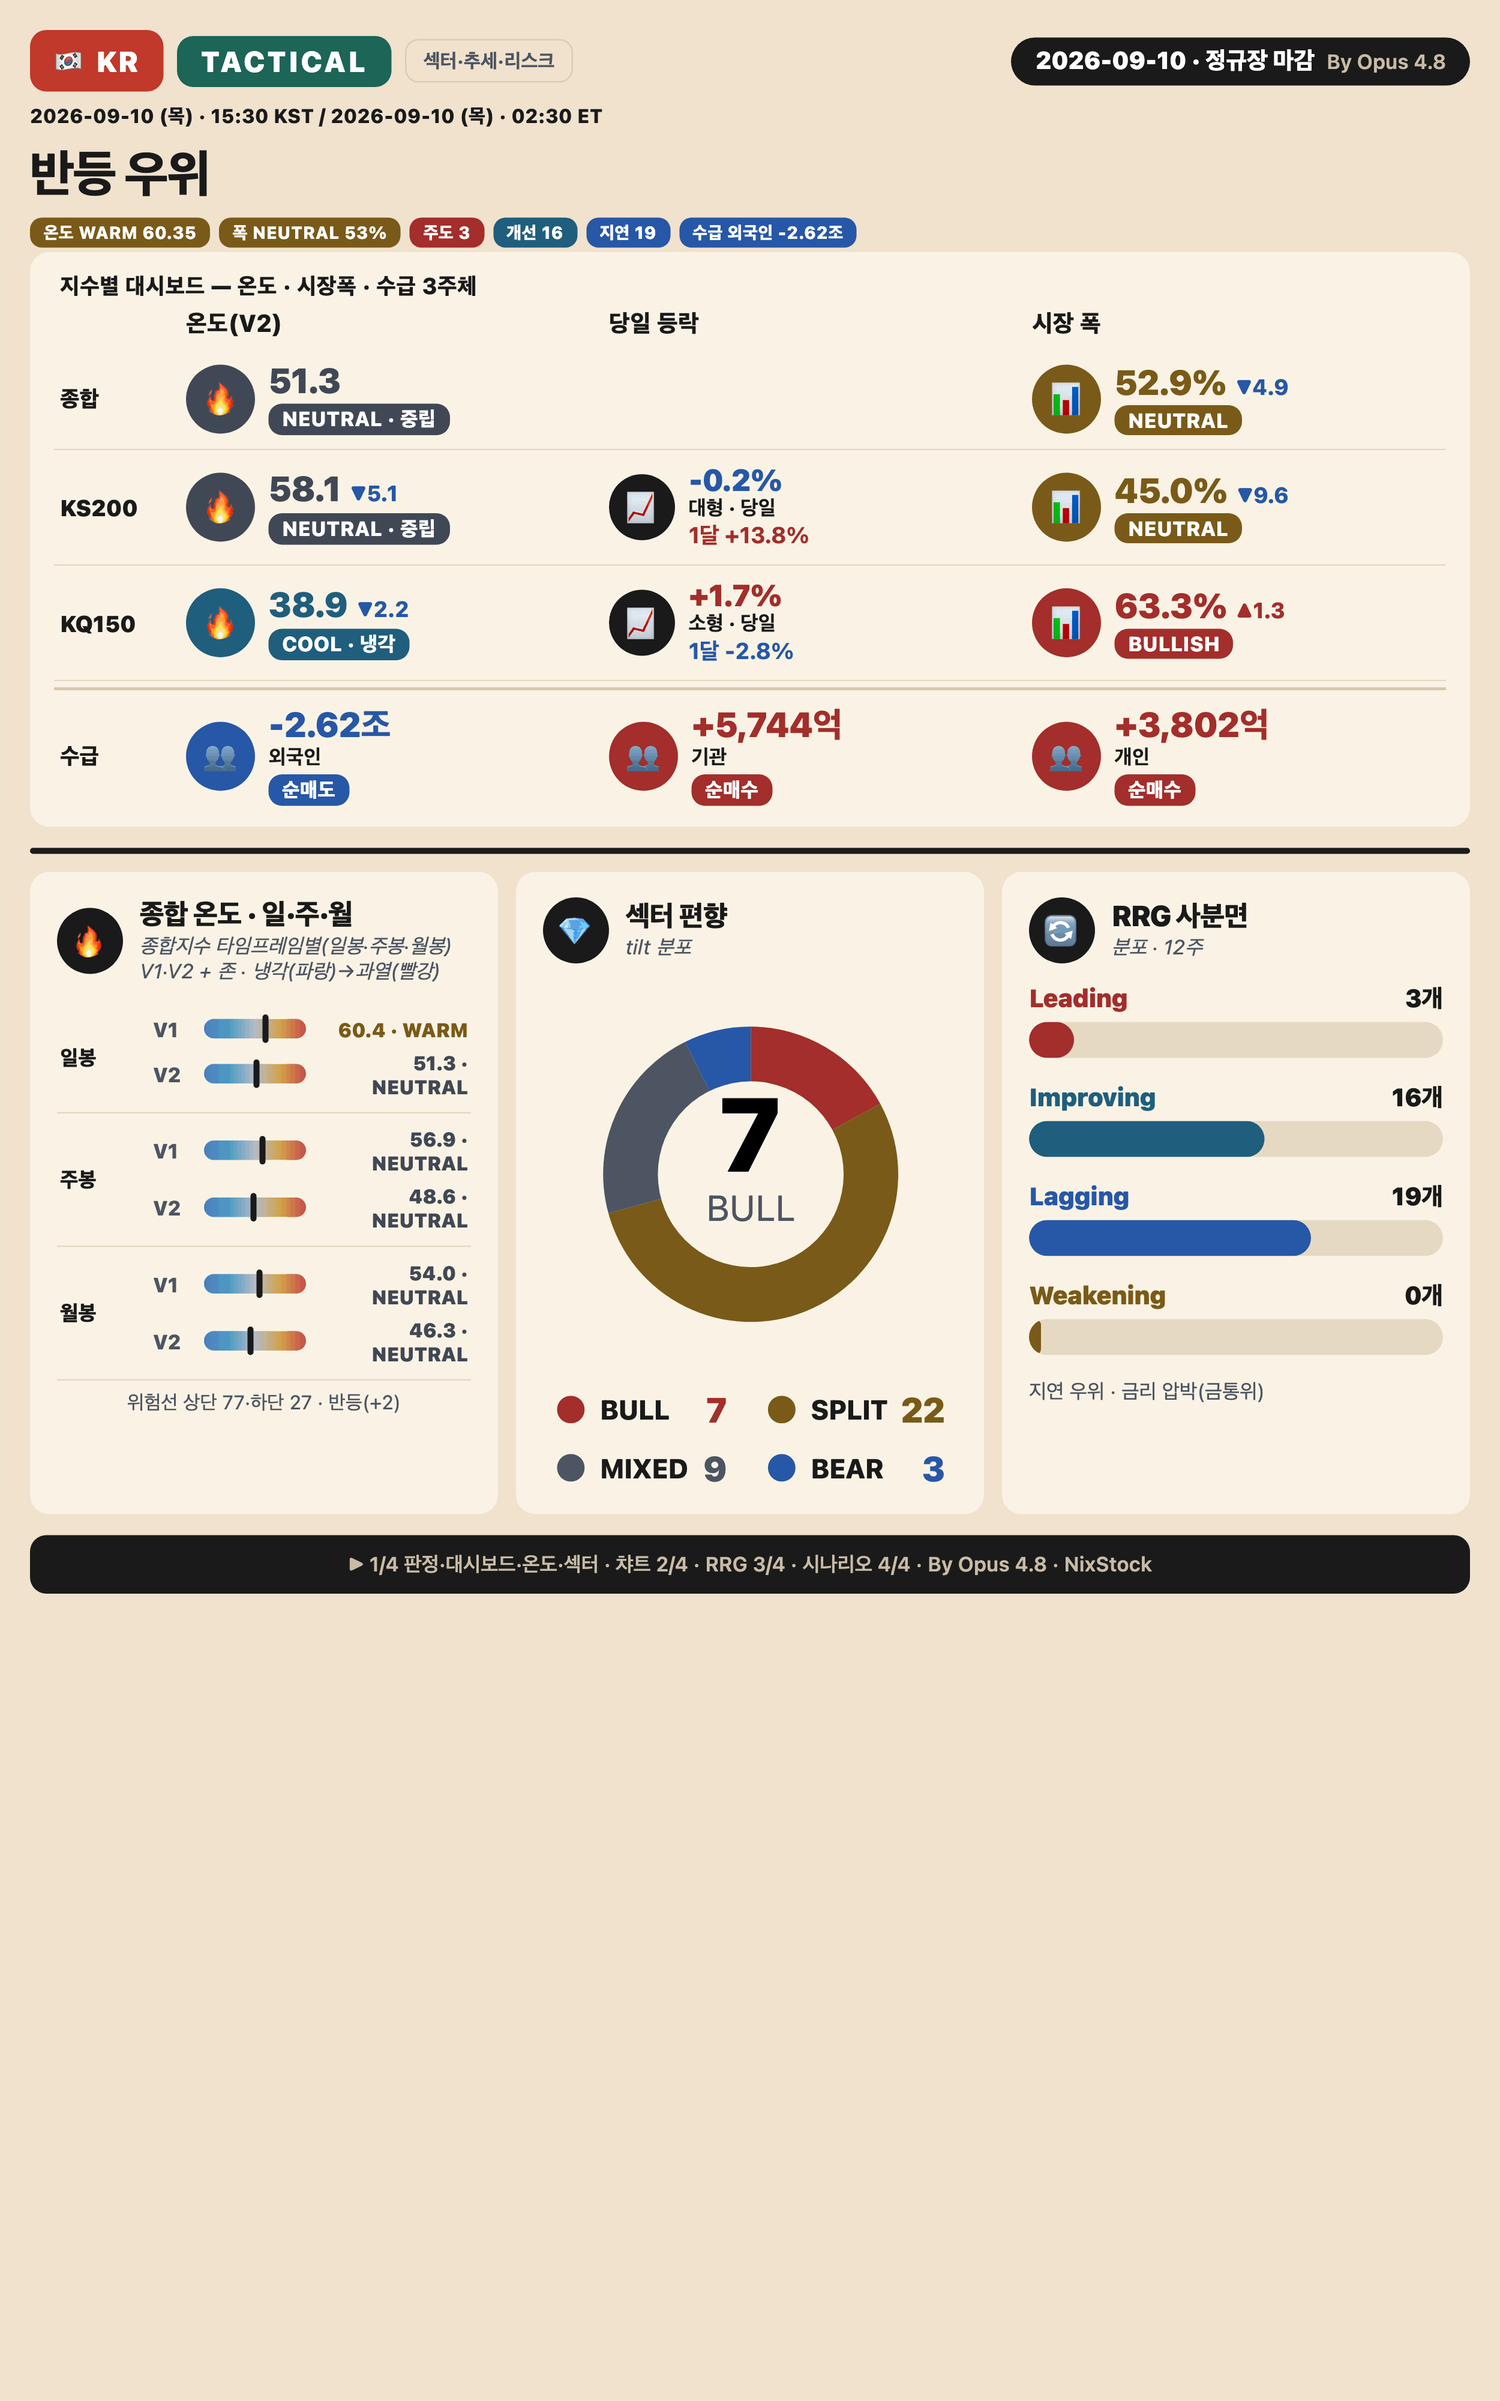
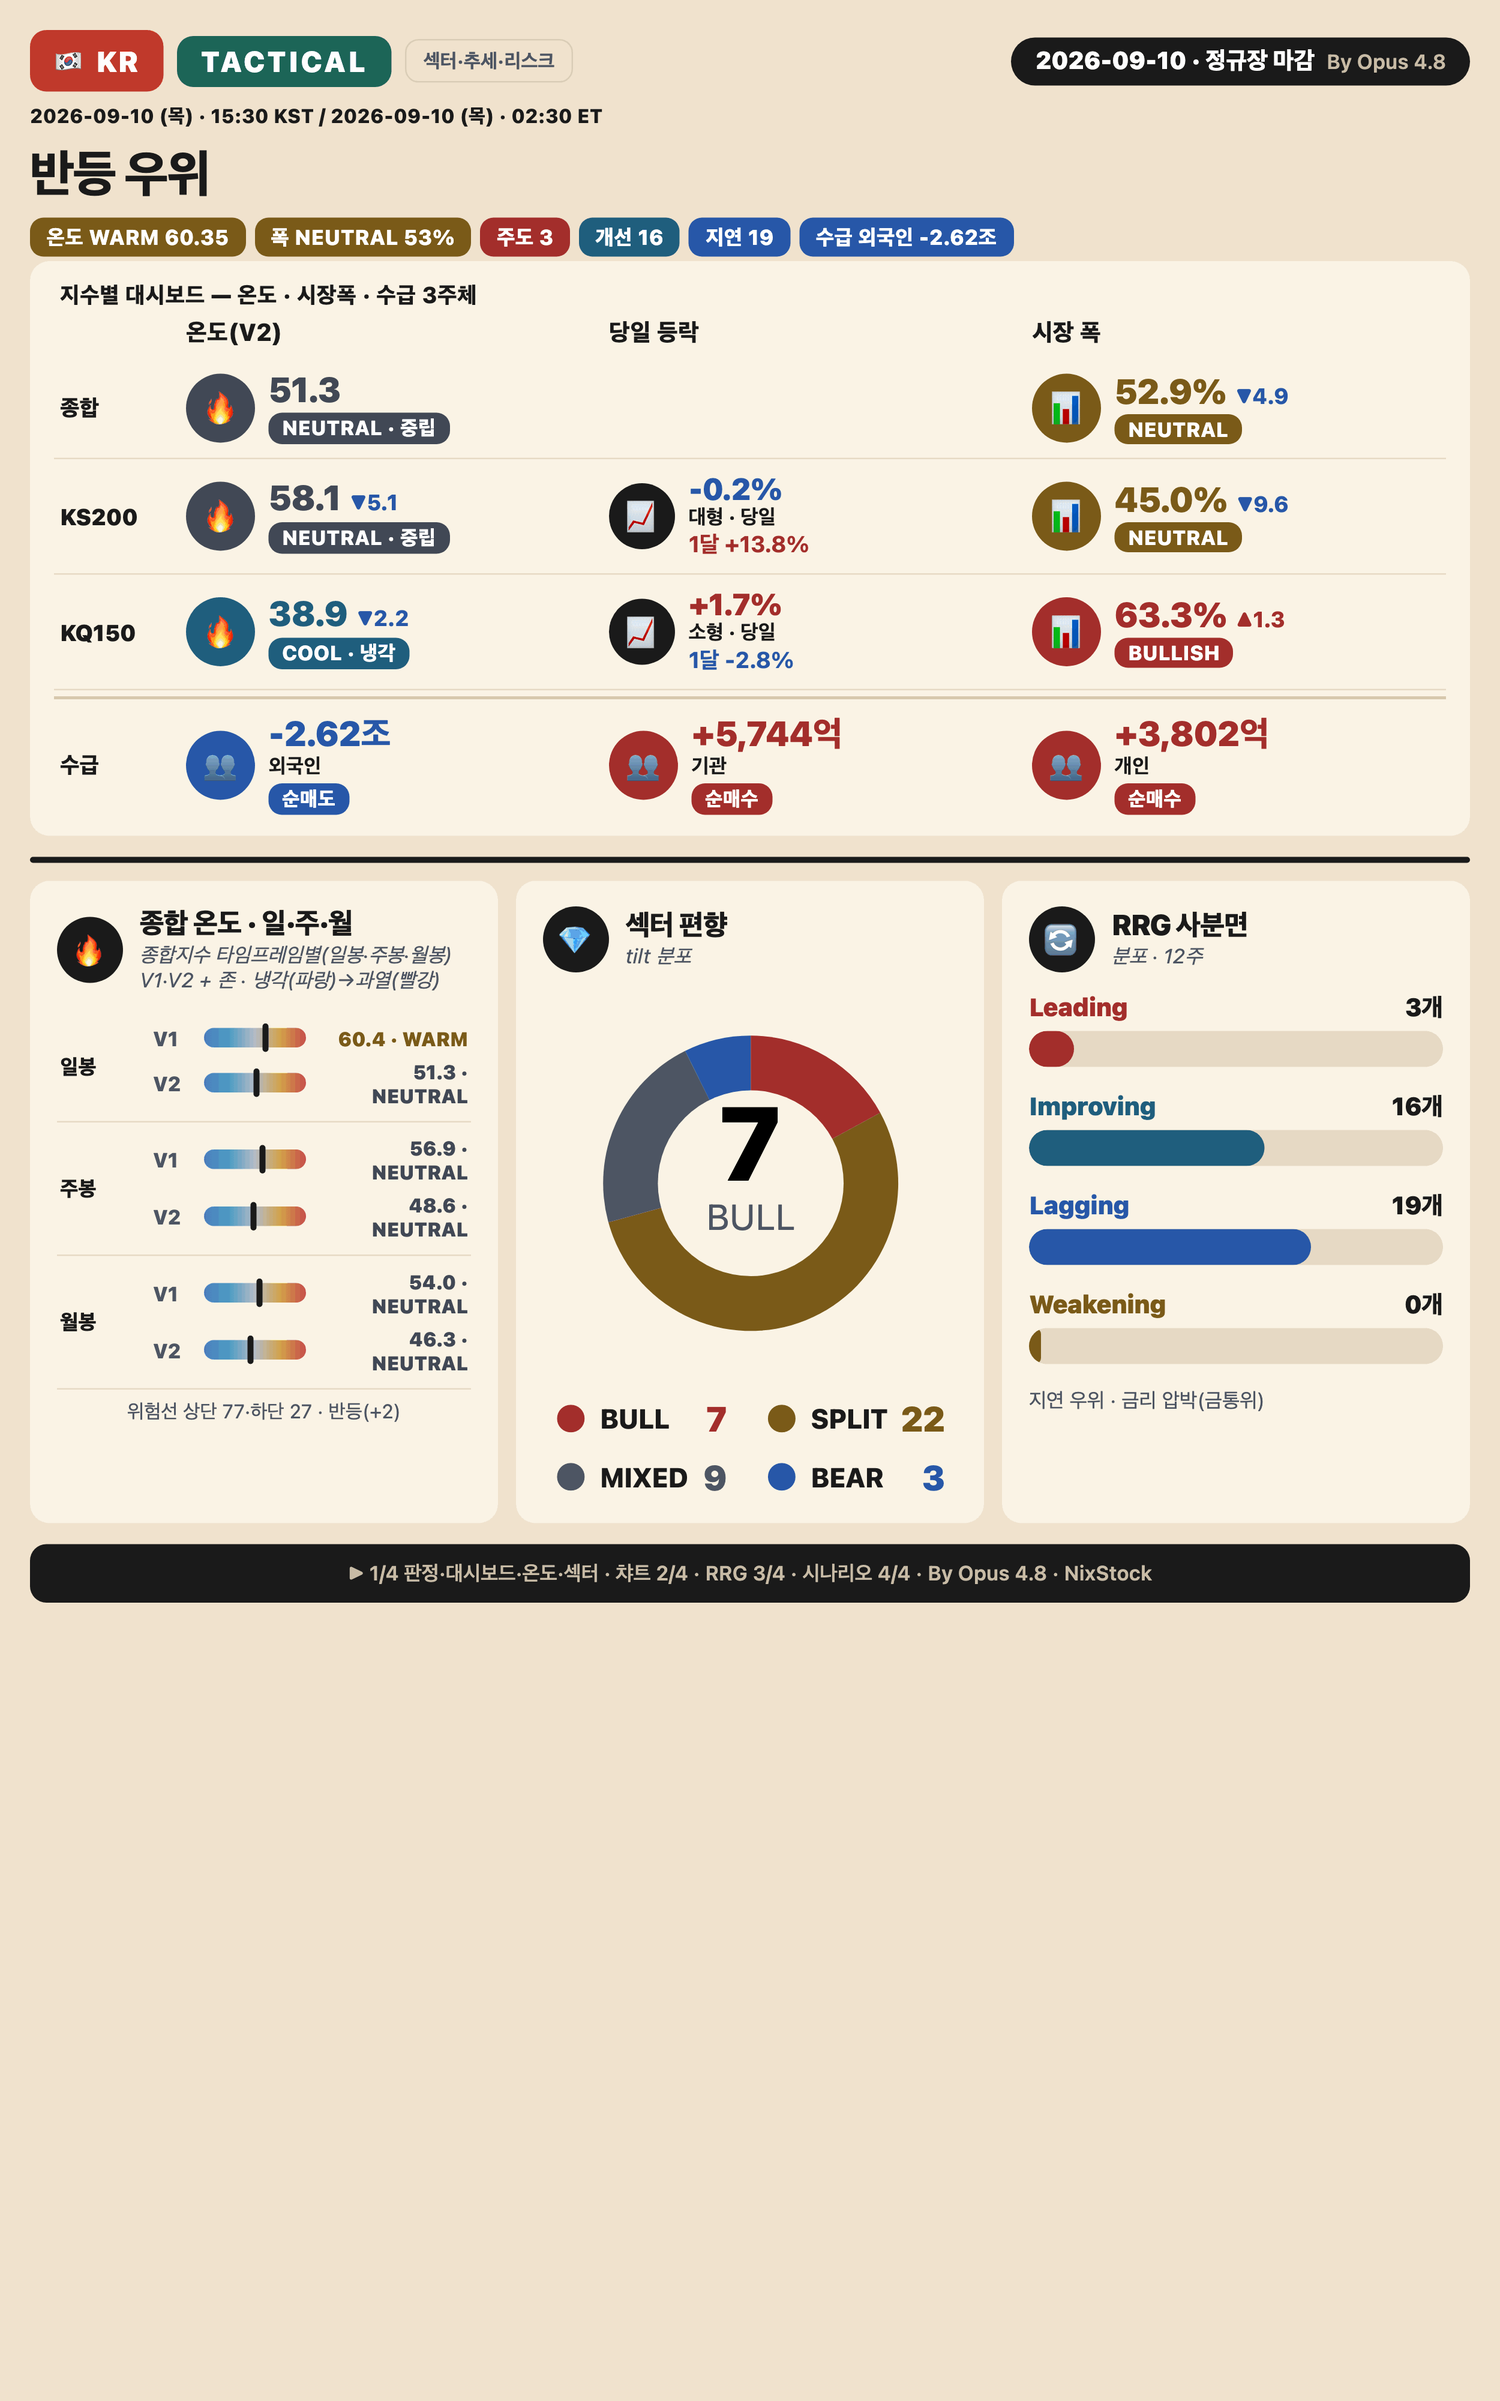
deploy: 2026-09-11 /Users/jichoi/Downloads/to_claude_web/tactical/2026-09-10_us_tactical_close /Users/jichoi/Downloads/to_claude_web/tactical/2026-09-10_kr_tactical_close

diff --git a/tactical/2026-09-10_kr_tactical_close/infographic/kr_tactical_infographic_2026-09-10_p1.html b/tactical/2026-09-10_kr_tactical_close/infographic/kr_tactical_infographic_2026-09-10_p1.html
@@ -8,7 +8,7 @@
 <span style="margin-left:auto;background:#1A1A1A;color:#fff;font-weight:900;font-size:16px;padding:6px 16px;border-radius:20px;white-space:nowrap">2026-09-10 · 정규장 마감<span style="font-size:13.5px;font-weight:600;color:#C9BCA6;margin-left:8px">By Opus 4.8</span></span></div>
 <div style="font-size:13px;font-weight:800;color:#1A1A1A;letter-spacing:.01em;margin:-2px 0 9px">2026-09-10 (목) · 15:30 KST / 2026-09-10 (목) · 02:30 ET</div>
 <h1>반등 우위</h1>
-<div style="display:flex;flex-wrap:wrap;gap:6px;align-items:center;margin:7px 0 3px"><span style="display:inline-flex;align-items:center;background:#7A5A18;color:#FFFFFF;font-weight:800;font-size:11.5px;padding:3px 9px;border-radius:8px;white-space:nowrap;letter-spacing:.2px">온도 WARM 60.35</span><span style="display:inline-flex;align-items:center;background:#7A5A18;color:#FFFFFF;font-weight:800;font-size:11.5px;padding:3px 9px;border-radius:8px;white-space:nowrap;letter-spacing:.2px">폭 NEUTRAL 53%</span><span style="display:inline-flex;align-items:center;background:#A32E2B;color:#FFFFFF;font-weight:800;font-size:11.5px;padding:3px 9px;border-radius:8px;white-space:nowrap;letter-spacing:.2px">주도 3</span><span style="display:inline-flex;align-items:center;background:#1F5F7D;color:#FFFFFF;font-weight:800;font-size:11.5px;padding:3px 9px;border-radius:8px;white-space:nowrap;letter-spacing:.2px">개선 16</span><span style="display:inline-flex;align-items:center;background:#2757A8;color:#FFFFFF;font-weight:800;font-size:11.5px;padding:3px 9px;border-radius:8px;white-space:nowrap;letter-spacing:.2px">지연 19</span><span style="display:inline-flex;align-items:center;background:#2757A8;color:#FFFFFF;font-weight:800;font-size:11.5px;padding:3px 9px;border-radius:8px;white-space:nowrap;letter-spacing:.2px">수급 외국인 -2.62조</span></div>
+<div style="display:flex;flex-wrap:wrap;gap:6px;align-items:center;margin:7px 0 3px"><span style="display:inline-flex;align-items:center;background:#7A5A18;color:#FFFFFF;font-weight:800;font-size:14px;padding:4px 11px;border-radius:9px;white-space:nowrap;letter-spacing:.2px">온도 WARM 60.35</span><span style="display:inline-flex;align-items:center;background:#7A5A18;color:#FFFFFF;font-weight:800;font-size:14px;padding:4px 11px;border-radius:9px;white-space:nowrap;letter-spacing:.2px">폭 NEUTRAL 53%</span><span style="display:inline-flex;align-items:center;background:#A32E2B;color:#FFFFFF;font-weight:800;font-size:14px;padding:4px 11px;border-radius:9px;white-space:nowrap;letter-spacing:.2px">주도 3</span><span style="display:inline-flex;align-items:center;background:#1F5F7D;color:#FFFFFF;font-weight:800;font-size:14px;padding:4px 11px;border-radius:9px;white-space:nowrap;letter-spacing:.2px">개선 16</span><span style="display:inline-flex;align-items:center;background:#2757A8;color:#FFFFFF;font-weight:800;font-size:14px;padding:4px 11px;border-radius:9px;white-space:nowrap;letter-spacing:.2px">지연 19</span><span style="display:inline-flex;align-items:center;background:#2757A8;color:#FFFFFF;font-weight:800;font-size:14px;padding:4px 11px;border-radius:9px;white-space:nowrap;letter-spacing:.2px">수급 외국인 -2.62조</span></div>
 
 <div class="card" style="padding:6px 16px 10px">
 <div style="font-size:15px;color:#1A1A1A;font-weight:800;letter-spacing:.3px;padding:7px 4px 3px">지수별 대시보드 — 온도 · 시장폭 · 수급 3주체</div>

diff --git a/tactical/2026-09-10_us_tactical_close/infographic/us_tactical_infographic_2026-09-10_p1.html b/tactical/2026-09-10_us_tactical_close/infographic/us_tactical_infographic_2026-09-10_p1.html
@@ -8,7 +8,7 @@
 <span style="margin-left:auto;background:#1A1A1A;color:#fff;font-weight:900;font-size:16px;padding:6px 16px;border-radius:20px;white-space:nowrap">2026-09-10 · 정규장 마감<span style="font-size:13.5px;font-weight:600;color:#C9BCA6;margin-left:8px">By Opus 4.8</span></span></div>
 <div style="font-size:13px;font-weight:800;color:#1A1A1A;letter-spacing:.01em;margin:-2px 0 9px">2026-09-11 (금) · 05:00 KST / 2026-09-10 (목) · 16:00 ET</div>
 <h1>반등 우위</h1>
-<div style="display:flex;flex-wrap:wrap;gap:6px;align-items:center;margin:7px 0 3px"><span style="display:inline-flex;align-items:center;background:#414855;color:#FFFFFF;font-weight:800;font-size:11.5px;padding:3px 9px;border-radius:8px;white-space:nowrap;letter-spacing:.2px">온도 NEUTRAL 41.67</span><span style="display:inline-flex;align-items:center;background:#2757A8;color:#FFFFFF;font-weight:800;font-size:11.5px;padding:3px 9px;border-radius:8px;white-space:nowrap;letter-spacing:.2px">폭 BEARISH 32%</span><span style="display:inline-flex;align-items:center;background:#A32E2B;color:#FFFFFF;font-weight:800;font-size:11.5px;padding:3px 9px;border-radius:8px;white-space:nowrap;letter-spacing:.2px">주도 9</span><span style="display:inline-flex;align-items:center;background:#1F5F7D;color:#FFFFFF;font-weight:800;font-size:11.5px;padding:3px 9px;border-radius:8px;white-space:nowrap;letter-spacing:.2px">개선 53</span><span style="display:inline-flex;align-items:center;background:#2757A8;color:#FFFFFF;font-weight:800;font-size:11.5px;padding:3px 9px;border-radius:8px;white-space:nowrap;letter-spacing:.2px">지연 29</span><span style="display:inline-flex;align-items:center;background:#7A5A18;color:#FFFFFF;font-weight:800;font-size:11.5px;padding:3px 9px;border-radius:8px;white-space:nowrap;letter-spacing:.2px">크레딧 NONE 2/3 LH</span></div>
+<div style="display:flex;flex-wrap:wrap;gap:6px;align-items:center;margin:7px 0 3px"><span style="display:inline-flex;align-items:center;background:#414855;color:#FFFFFF;font-weight:800;font-size:14px;padding:4px 11px;border-radius:9px;white-space:nowrap;letter-spacing:.2px">온도 NEUTRAL 41.67</span><span style="display:inline-flex;align-items:center;background:#2757A8;color:#FFFFFF;font-weight:800;font-size:14px;padding:4px 11px;border-radius:9px;white-space:nowrap;letter-spacing:.2px">폭 BEARISH 32%</span><span style="display:inline-flex;align-items:center;background:#A32E2B;color:#FFFFFF;font-weight:800;font-size:14px;padding:4px 11px;border-radius:9px;white-space:nowrap;letter-spacing:.2px">주도 9</span><span style="display:inline-flex;align-items:center;background:#1F5F7D;color:#FFFFFF;font-weight:800;font-size:14px;padding:4px 11px;border-radius:9px;white-space:nowrap;letter-spacing:.2px">개선 53</span><span style="display:inline-flex;align-items:center;background:#2757A8;color:#FFFFFF;font-weight:800;font-size:14px;padding:4px 11px;border-radius:9px;white-space:nowrap;letter-spacing:.2px">지연 29</span><span style="display:inline-flex;align-items:center;background:#7A5A18;color:#FFFFFF;font-weight:800;font-size:14px;padding:4px 11px;border-radius:9px;white-space:nowrap;letter-spacing:.2px">크레딧 NONE 2/3 LH</span></div>
 
 <div class="card" style="padding:6px 16px 10px">
 <div style="font-size:15px;color:#1A1A1A;font-weight:800;letter-spacing:.3px;padding:7px 4px 3px">지수별 대시보드 — 온도 · 시장폭 · killswitch</div>
